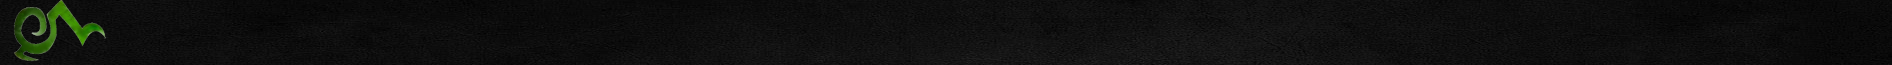
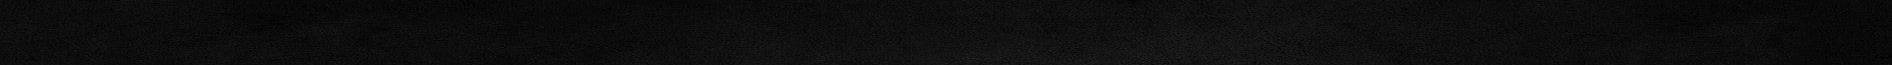
switch title Illidan from sidebar to nav

Changed region(s): [[0.0, 0.0615, 0.0624, 0.9538]]

diff --git a/styles/nav.css b/styles/nav.css
@@ -1,15 +1,32 @@
 nav {
   display: flex;
-  justify-content: flex-end;
+  justify-content: space-between;
   position: fixed;
   top: 0;
   right: 0;
   width: 100%;
-  height: 65px;
+  height: var(--nav-height);
   background-image: url("../img/nav_back.png");
   background-size: cover;
   background-repeat: no-repeat;
   border-bottom: solid 1px var(--primary-opacity);
+}
+
+nav div {
+  display: flex;
+  align-items: center;
+  width: 700px;
+}
+
+nav div img {
+  margin-left: var(--spacing);
+}
+
+nav h2 {
+  font-size: var(--text-size);
+  color: var(--primary);
+  font-family: "Burning Wrath";
+  margin-left: var(--spacing3);
 }
 
 nav ul {
@@ -63,7 +80,7 @@ nav ul li a:hover {
   }
 }
 
-@media screen and (max-width: 630px) {
+@media screen and (max-width: 845px) {
   nav ul {
     display: none;
   }

diff --git a/index.html b/index.html
@@ -12,6 +12,10 @@
   <body>
     <header>
       <nav>
+        <div class="logo-title">
+          <img src="img/logo.png" alt="logo" />
+          <h2>Illidan Stormrage</h2>
+        </div>
         <ul class="items" id="items">
           <li><a href="#home">Accueil</a></li>
           <li><a href="#qualities">Qualités</a></li>
@@ -41,10 +45,6 @@
     <div class="wrapper">
       <aside class="sidebar">
         <div></div>
-        <h2>
-          Illidan <br />
-          Stormage
-        </h2>
         <ul>
           <li>
             <img src="img/phone.png" alt="phone" class="icone-contact" /><span

diff --git a/styles/sidebar.css b/styles/sidebar.css
@@ -1,9 +1,9 @@
 .sidebar {
   position: sticky;
-  top: 65px;
+  top: var(--nav-height);
   overflow: auto;
   background-color: black;
-  height: 100vh;
+  height: calc(100vh - var(--nav-height));
   width: var(--sidebar-width);
   vertical-align: top;
   border-right: solid 1px var(--primary-opacity);
@@ -30,6 +30,7 @@
   color: var(--primary);
   margin-block-start: 0;
   margin-block-end: var(--spacing2);
+  margin-top: 3rem;
   text-align: center;
   font-family: "Burning Wrath";
 }

diff --git a/styles/main.css b/styles/main.css
@@ -16,6 +16,7 @@
   --title-size: clamp(35px, 2.6em, 45px);
 
   --sidebar-width: 260px;
+  --nav-height: 65px;
 
   --spacing: 0.5rem;
   --spacing2: calc(2 * var(--spacing));
